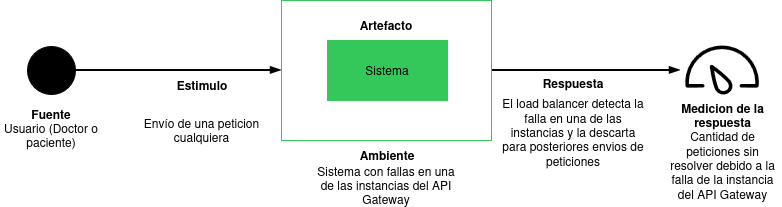
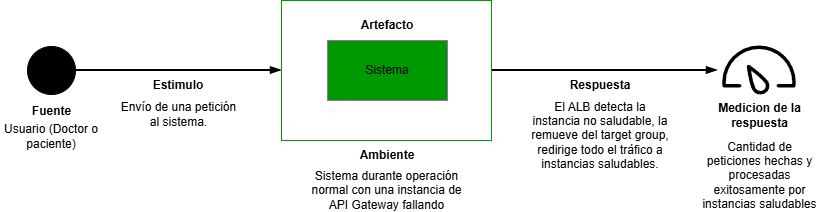
Load balancer with removal from service scenario fixed

diff --git a/p4/README.md b/p4/README.md
@@ -655,7 +655,7 @@ Tactic: Redundant spare
 
 **Applied Pattern:** Cluster Pattern (Active-Active)
 
-##### **Scenario 3: Load Balancer with Removal From Service Tactic implementend**
+##### **Scenario 3: Load Balancer with Removal From Service Tactic**
 
 <div align="center">
 
@@ -664,14 +664,16 @@ Tactic: Redundant spare
 </div>
 
 **Description:**
-- **Source (Fuente):** User (doctor or patient)
-- **Stimulus (Estímulo):** User sends a request
+- **Source (Fuente):** User (Doctor or patient)
+- **Stimulus (Estímulo):** User sends a request to the system
 - **Artifact (Artefacto):** The system
-- **Environment (Ambiente):** System with failes in one of the API Gateway instances
-- **Response (Respuesta):**  The load balancer detects the failures in one of the instances and discards it for the next requests
-- **Response Measure (Medición de la respuesta):** Number of requests without processing due to the failure in the instance of the API Gateway
+- **Environment (Ambiente):** System during normal operation with one API Gateway instance failing
+- **Response (Respuesta):** Public ALB detects unhealthy instance, immediately removes it from target group rotation, routes all subsequent requests to healthy instances, ECS launches replacement task, user experiences no service interruption
+- **Response Measure (Medición de la respuesta):** Number of requests successfully processed by healthy instances. 0 requests routed to unhealthy instance after detection.
 
 **Applied Pattern:** Load Balancer
+
+**Applied Tactic:** Removal from Service (Detect Faults + Recover from Faults)
 
 **Scenario 4: Service Discovery Pattern**
 
